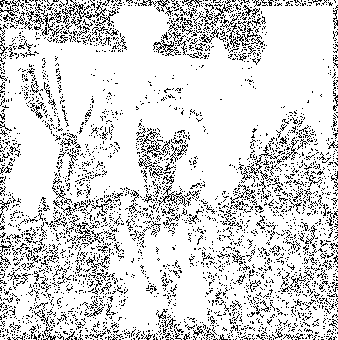
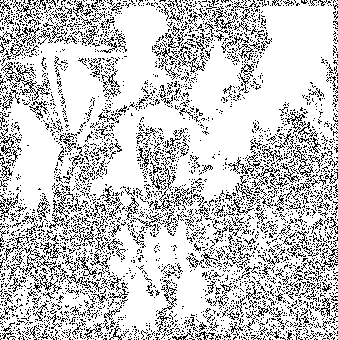
chore: banco de imagenes, pruebas extra, y codigo comentado

Changed region(s): [[0.0, 0.0, 1.0, 1.0], [0.5917, 0.3529, 0.6213, 0.4118]]

diff --git a/camara.py b/camara.py
@@ -1,12 +1,15 @@
-import sys
-import os
-import random
-from PIL import Image
-import matplotlib.pyplot as plt
+import sys # lee lo que se escribe en la terminal al ejecutar (la ruta de la imagen)
+import os # trabaja con rutas y carpetas (nombre del archivo y crear "resultados")
+import random # permide simular numeros pseudoaleatorios para el interferometro
+from PIL import Image # Pillow: abre, crea, modifica y guarda imagenes
+import matplotlib.pyplot as plt # dibuja la ventana con las imagenes
 
-max_pruebas = 7
-umbral = 114
+max_pruebas = 7 # numero maximo de pruebas por foton (constante ajustable)
+umbral = 128 # umbral de una imagen (constante ajustable)
 
+# simula el sistema sobre un pixel
+# cada vuelta del for es un foton y el sorteo sigue el arbol de probabilidad
+# un pixel blanco nunca entra al if, asi que siempre termina inconcluso
 def probar_pixel(es_negro):
     for prueba in range(max_pruebas):
         if es_negro:
@@ -17,28 +20,36 @@ def probar_pixel(es_negro):
                 return "detecta"
     return "inconcluso"
 
+# lee la ruta escrita en el terminal, saca el nombre del archivo sin carpeta ni extension
+# abre la imagen a color, obtiene su resolucion y crea una copia en grises
 ruta = sys.argv[1]
 nombre = os.path.splitext(os.path.basename(ruta))[0]
 original = Image.open(ruta).convert("RGB")
 ancho, alto = original.size
 grises = original.convert("L")
 
+# pasa a blanco y negro: crea un lienzo en blanco y pinta de negro los pixeles mas oscuros que el umbral
+# esto se hace para cada pixel
 imagen = Image.new("L", (ancho, alto), 255)
 for y in range(alto):
     for x in range(ancho):
         if grises.getpixel((x, y)) < umbral:
             imagen.putpixel((x, y), 0)
 
+# muestra la resolucion: ancho * alto es la cantidad de pixeles (bombas) a probar
 print("Ancho:", ancho)
 print("Alto:", alto)
 print("Total de pixeles:", ancho * alto)
 
+# contadores de cada resultado
 explotadas = 0
 detectadas = 0
 inconclusos = 0
 
+# lienzo blanco donde se pintara el resultado
 resultado_img = Image.new("L", (ancho, alto), 255)
 
+# recorre cada pixel de la imagen en blanco y negro, verifica si es negro, los prueba con el interferometro y pinta los resultados en el lienzo
 for y in range(alto):
     for x in range(ancho):
         valor = imagen.getpixel((x, y))
@@ -52,18 +63,23 @@ for y in range(alto):
         else:
             inconclusos += 1
 
+# explicar que, como y porque se esta imprimiento en pantalla
 print("Explotadas:", explotadas)
 print("Detectadas:", detectadas)
 print("Inconclusos:", inconclusos)
+
+# crea la carpeta resultados si no existe, y guarda la imagen con el nombre [nombre_original]_resultado.png
 os.makedirs("resultados", exist_ok=True)
 resultado_img.save("resultados/" + nombre + "_resultado.png")
 
+# se crea una ventana de 1 fila * 3 columnas
 figura, ejes = plt.subplots(1, 3)
 
-ejes[0].imshow(original)
-ejes[0].set_title("Original")
-ejes[0].axis("off")
+ejes[0].imshow(original) # muestra la imagen
+ejes[0].set_title("Original") # titulo del subplot
+ejes[0].axis("off") # quita los numeros de los ejes
 
+# cmap="gray" traduce los numeros a grises, vmin y vmax fijan los colores a los extremos (blanco o negro)
 ejes[1].imshow(imagen, cmap="gray", vmin=0, vmax=255)
 ejes[1].set_title("Blanco y negro")
 ejes[1].axis("off")
